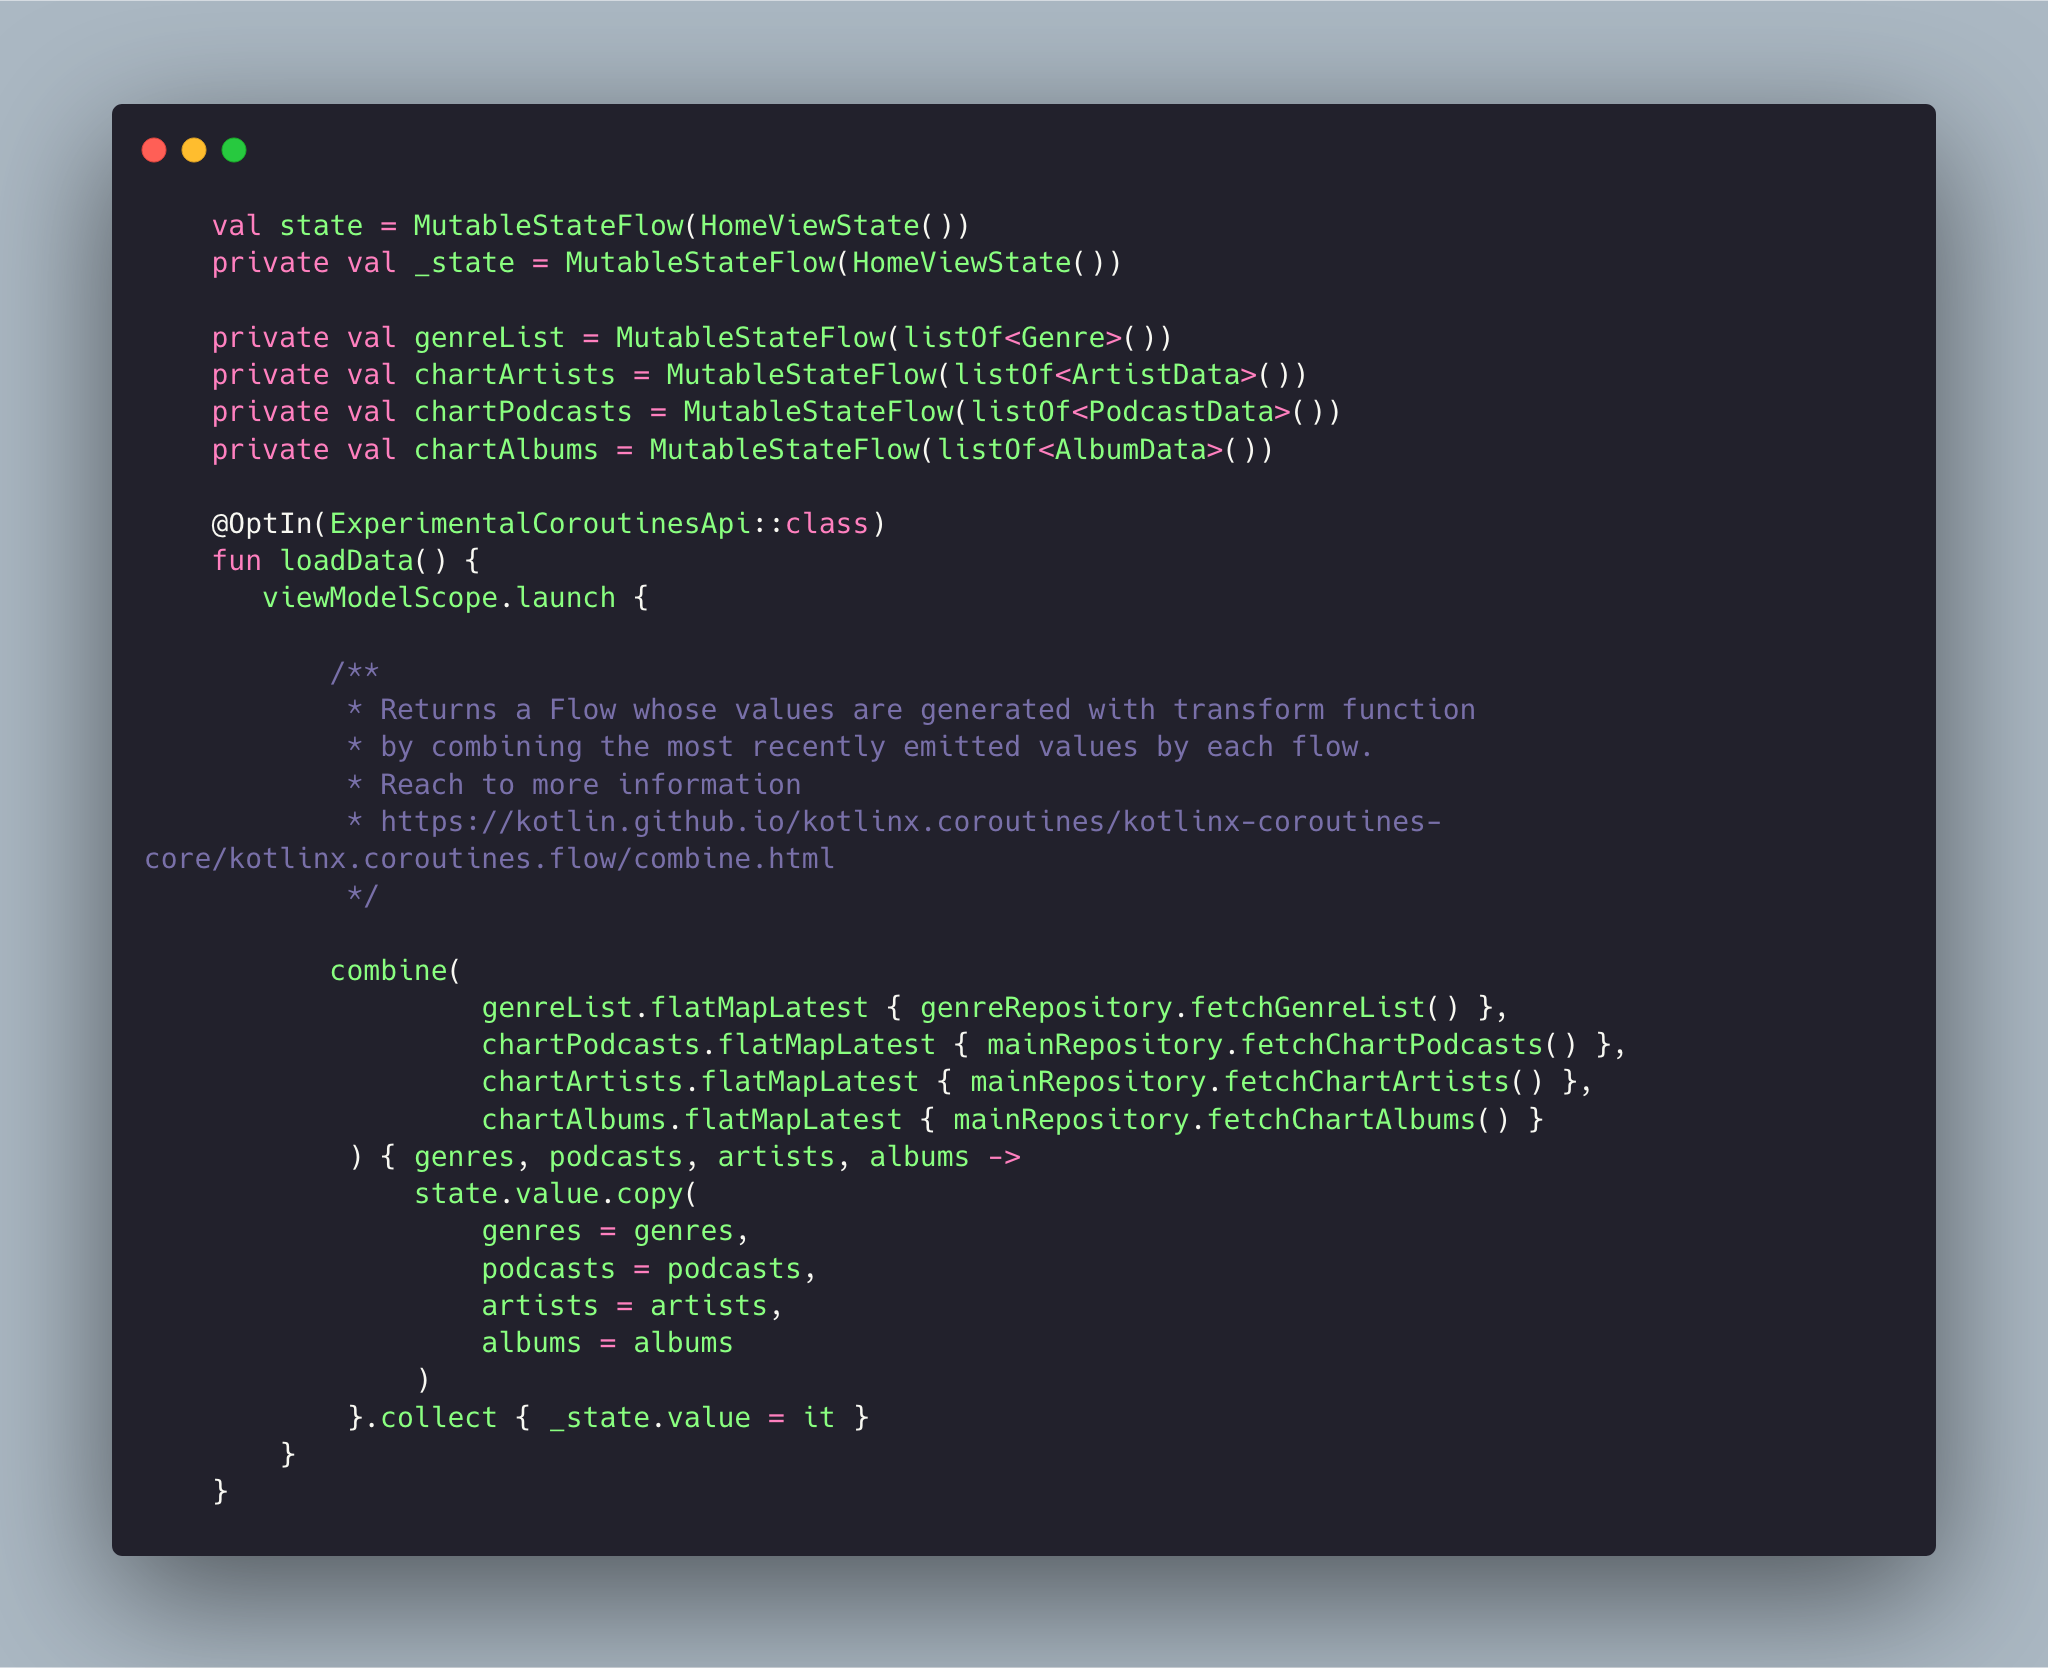
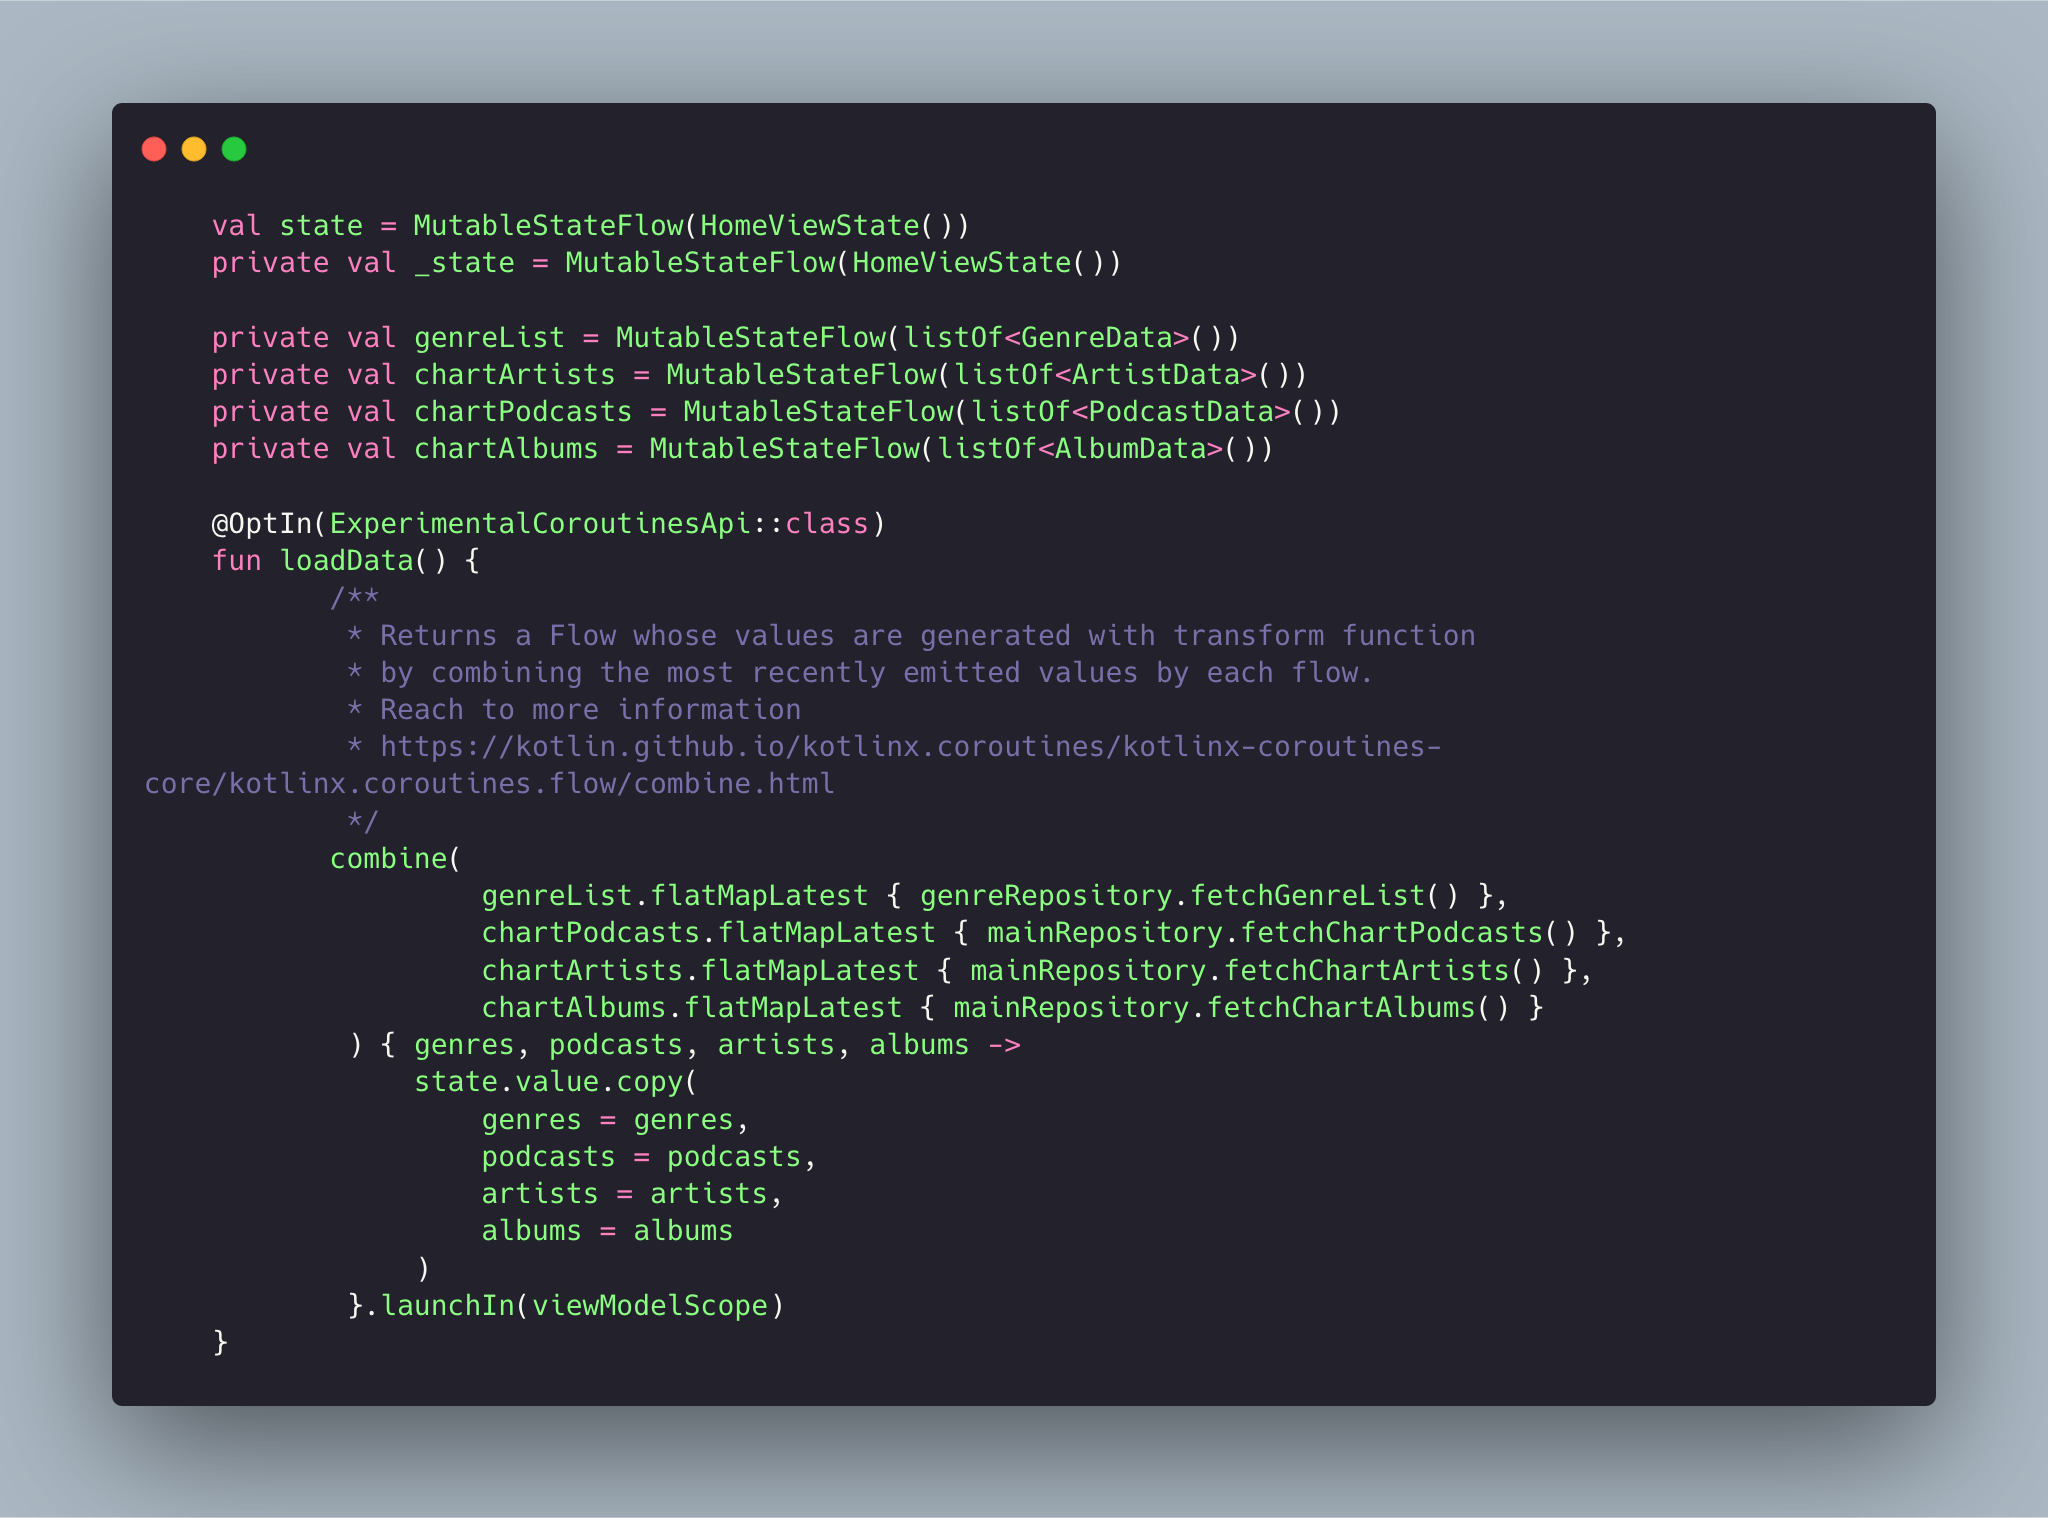
Replaced launchIn instead of viewmodelScope

diff --git a/codes/KotlinFlowCombine.kt b/codes/KotlinFlowCombine.kt
@@ -1,22 +1,19 @@
 	val state = MutableStateFlow(HomeViewState())
     private val _state = MutableStateFlow(HomeViewState())
 
-    private val genreList = MutableStateFlow(listOf<Genre>())
+    private val genreList = MutableStateFlow(listOf<GenreData>())
     private val chartArtists = MutableStateFlow(listOf<ArtistData>())
     private val chartPodcasts = MutableStateFlow(listOf<PodcastData>())
     private val chartAlbums = MutableStateFlow(listOf<AlbumData>())
 
     @OptIn(ExperimentalCoroutinesApi::class)
     fun loadData() {
-       viewModelScope.launch {
-
            /**
             * Returns a Flow whose values are generated with transform function
             * by combining the most recently emitted values by each flow.
             * Reach to more information
 			* https://kotlin.github.io/kotlinx.coroutines/kotlinx-coroutines-		core/kotlinx.coroutines.flow/combine.html
             */
-
            combine(
                     genreList.flatMapLatest { genreRepository.fetchGenreList() },
                     chartPodcasts.flatMapLatest { mainRepository.fetchChartPodcasts() },
@@ -29,6 +26,5 @@
                     artists = artists,
                     albums = albums
                 )
-            }.collect { _state.value = it }
-        }
+            }.launchIn(viewModelScope)
     }
